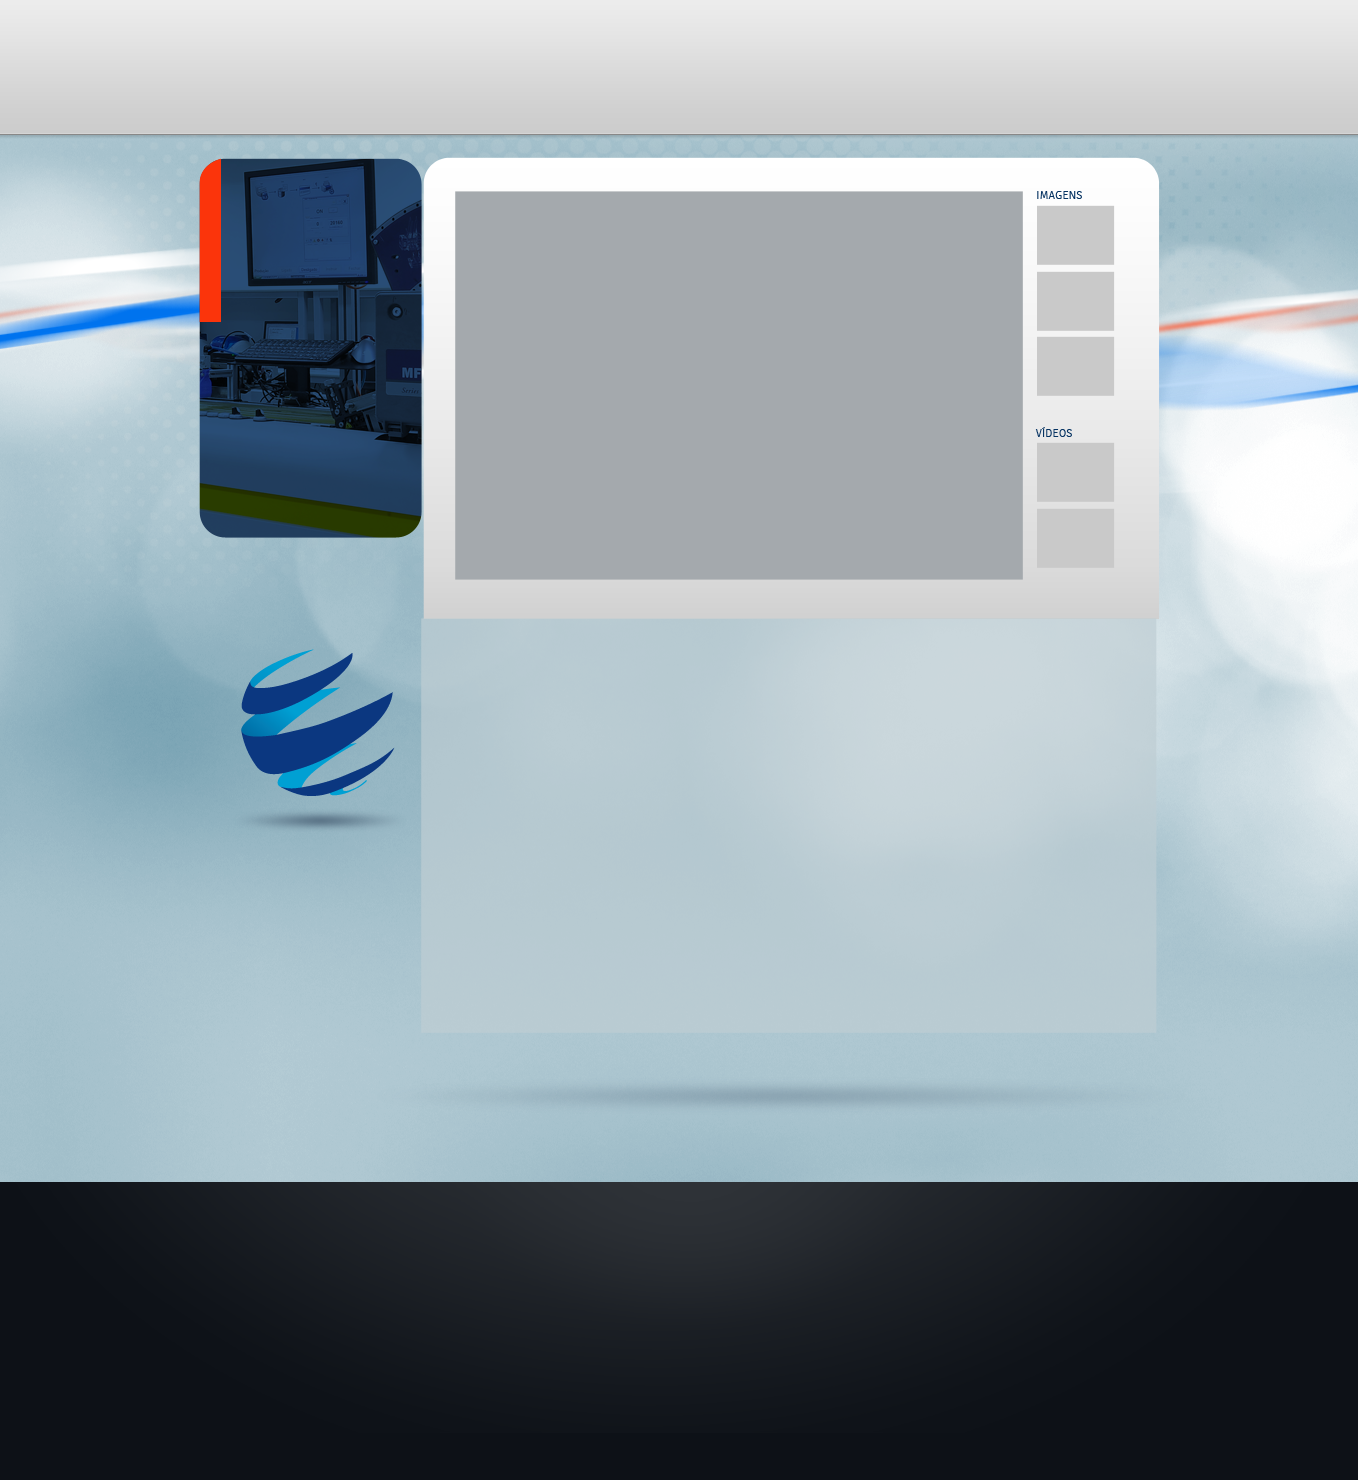
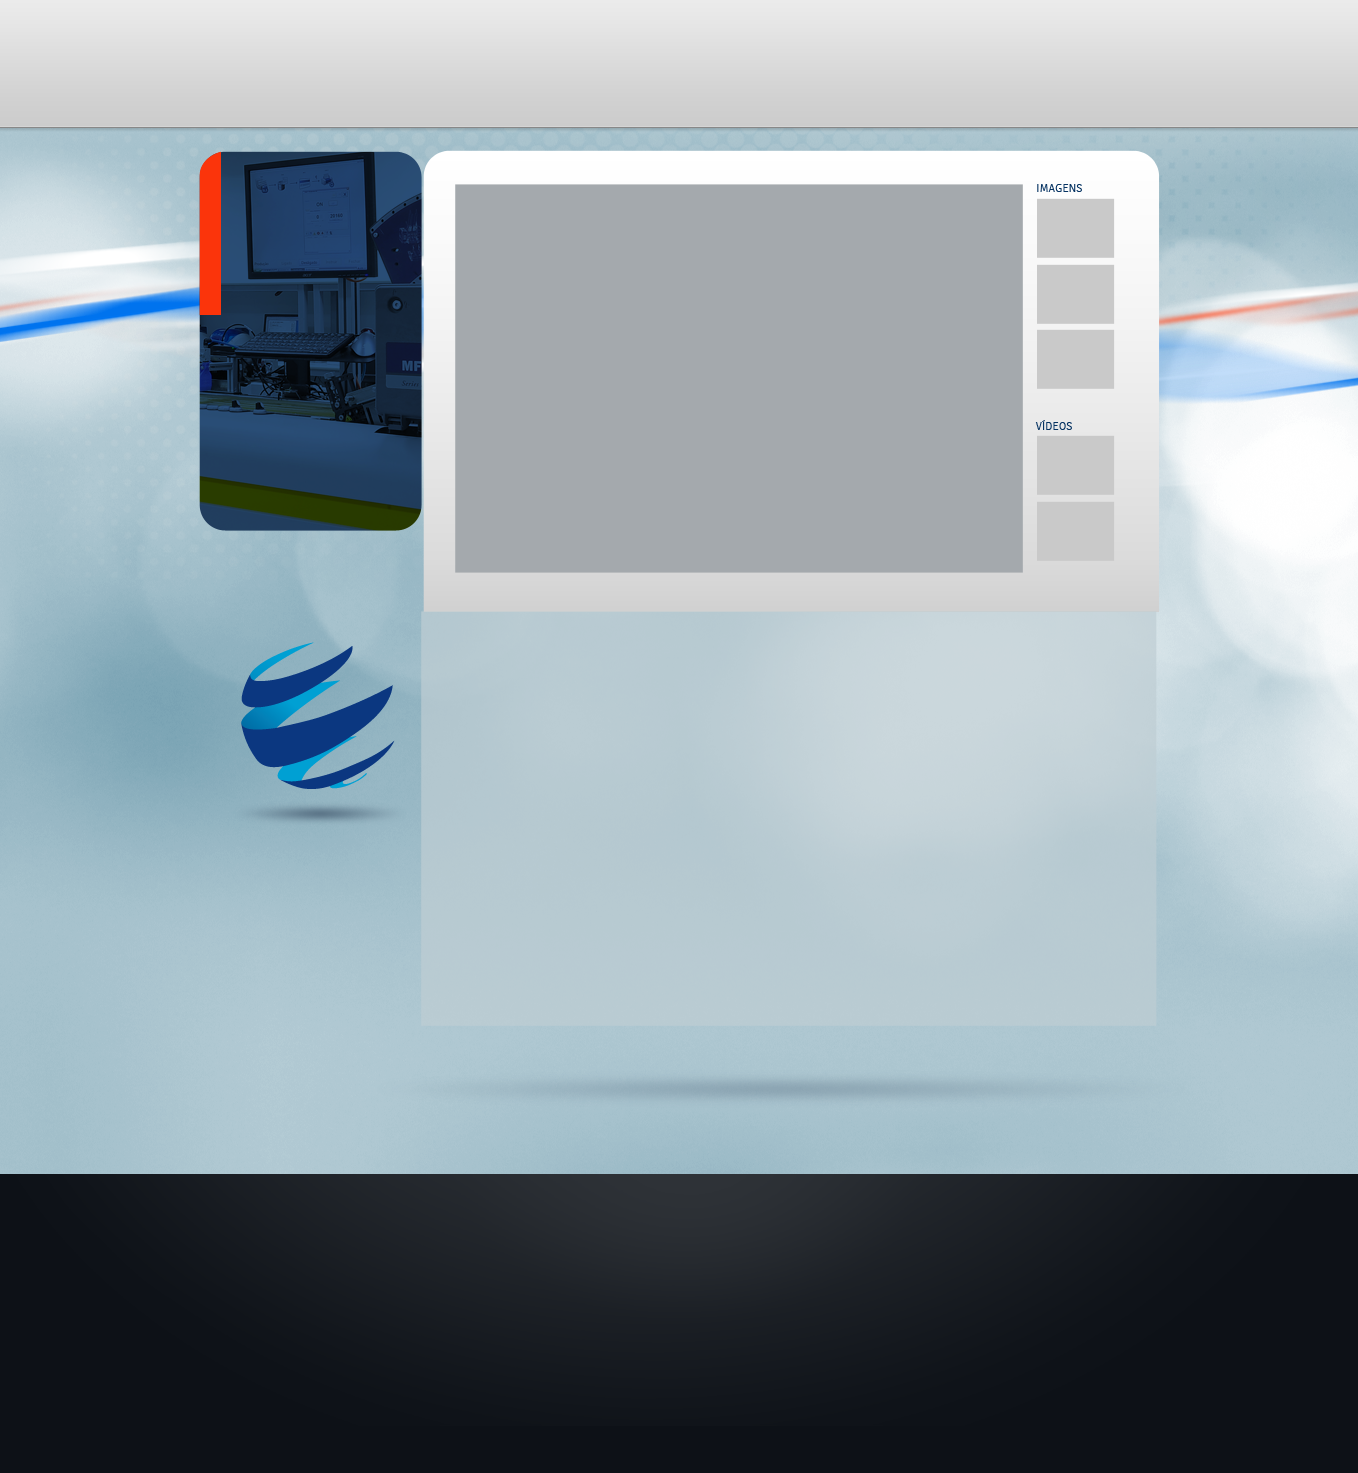
finalizado tela de empresa e servico com conteudo centralizado

diff --git a/css/servico.css b/css/servico.css
@@ -7,35 +7,35 @@
 
 #middle { width: 1358px; height: 884px; position: relative }
 
-	#middle #bureau { width: 254px; height: 652px; margin-left: 186px; margin-top: 64px; float: left }
-		#middle #bureau #bureauTittle { width: 213px; height: 20px; padding-left: 41px; 
+	#middle #bureau { width: 214px; height: 652px; margin-left: 204px; margin-top: 64px; float: left; padding-left: 40px }
+		#middle #bureau #bureauTittle { width: 213px; height: 20px; 
 		 								font-family: Signika, sans-serif; font-weight: 600; letter-spacing: 0.6px; line-height: 19px;font-size: 16px; color: #ffffff }
-		#middle #bureau #bureauText { width: 174px; height: 96px ; padding-right: 39px; padding-left: 41px; padding-top: 11px; letter-spacing: 0.2px; 
+		#middle #bureau #bureauText { width: 174px; height: 96px ; padding-right: 39px; padding-top: 11px; letter-spacing: 0.2px; 
 										font-family: Signika, sans-serif; font-weight: 300; font-size: 14px; color: #4db3cc }
-		#middle #bureau #bureau01 { width: 213px; height: 54px; padding-left: 41px; padding-top: 30px;
+		#middle #bureau #bureau01 { width: 213px; height: 54px; padding-top: 30px;
 										font-family: Signika, sans-serif; font-weight: 300; font-size: 14px; color: #aab7c7 }
-		#middle #bureau #bureau02 { width: 213px; height: 36px; padding-left: 41px; padding-top: 14px;
+		#middle #bureau #bureau02 { width: 213px; height: 36px; padding-top: 14px;
 										font-family: Signika, sans-serif; font-weight: 300; font-size: 14px; color: #aab7c7}
-		#middle #bureau #bureau03 { width: 174px; height: 132px; padding-left: 41px; padding-right: 39px; padding-top: 9px;
+		#middle #bureau #bureau03 { width: 174px; height: 132px; padding-right: 39px; padding-top: 9px;
 										font-family: Signika, sans-serif; font-weight: 300; font-size: 14px; color: #aab7c7 }
-		#middle #bureau #bureau04 { width: 213px; height: 61px; padding-left: 41px; padding-top: 5px;
+		#middle #bureau #bureau04 { width: 213px; height: 61px; padding-top: 5px;
 		  								font-family: Signika, sans-serif; font-weight: 300; font-size: 14px; color: #aab7c7 }
-		#middle #bureau #bureau05 { width: 183px; height: 79px; padding-left: 41px; padding-right: 30px; padding-top: 5px;
+		#middle #bureau #bureau05 { width: 183px; height: 79px; padding-right: 30px; padding-top: 5px;
 										font-family: Signika, sans-serif; font-weight: 300; font-size: 14px; color: #aab7c7 }
-		#middle #bureau #bureau06 { width: 187px; height: 40px; padding-left: 41px; padding-right: 27px; padding-top: 7px;
+		#middle #bureau #bureau06 { width: 187px; height: 40px; padding-right: 27px; padding-top: 7px;
 										font-family: Signika, sans-serif; font-weight: 300; font-size: 14px; color: #aab7c7 }
-		#middle #bureau #bureau07 { width: 213px; height: 46px;  padding-left: 41px; padding-top: 7px;
+		#middle #bureau #bureau07 { width: 213px; height: 46px;  padding-top: 7px;
 										font-family: Signika, sans-serif; font-weight: 300; font-size: 14px; color: #aab7c7 }
 
-	#middle #bureauMedia { width: 697px; height: 424px; margin-top: 22px; float:left; padding-left: 45px; padding-top: 43px; position: relative }
+	#middle #bureauMedia { width: 697px; height: 424px; margin-top: 21px; float:left; padding-left: 44px; padding-top: 43px; position: relative }
 	#middle #bureauMedia .container { position: absolute }
 
-	#middle .menu { height: 117px; width: 697px; float: left; padding-left:45px }
+	#middle .menu { height: 117px; width: 697px; float: left; padding-left:43px }
 	
 	#middle .menu .thumb { cursor: pointer; width: 99px; height: 79px; float: left; margin-right: 4px; margin-left:2px }
 	
 	#middle .menu .thumbimage { margin-left: 4px }
-	#middle .menu .thumbvideo { margin-left: 18px }
+	#middle .menu .thumbvideo { margin-left: 21px }
 
 	#imgSmallService01 .thumb { background: url("../img/imgSmallService01.png") no-repeat }
 	#imgSmallService02 .thumb { background: url("../img/imgSmallService02.png") no-repeat }

diff --git a/css/empresa.css b/css/empresa.css
@@ -1,8 +1,10 @@
+.background { height: 1473px }
 
+body { background-image: url("../img/background_company.png"); background-repeat: repeat-x }
 
 #enterpriseContent { background: url(../img/enterpriseBackground.png ) no-repeat 0 0 }
 
-#middle { width: 958px; height: 1026px; margin-left: 182px; margin-top: 19px; position: relative }
+#middle { width: 958px; height: 1026px; margin-left: 199px; margin-top: 19px; position: relative }
 
 	#middle #left { 
 		height: 231px; width: 180px; float: left; padding-left: 44px; padding-top: 150px;
@@ -16,10 +18,10 @@
 		#middle .image { width: 567px; height: 392px; float: left; position: relative }
 			#middle .image .container { position: absolute }
 
-		#middle .menu { width: 88px; height: 376px; float: left; margin-left: 16px; padding-top: 16px }
+		#middle .menu { width: 88px; height: 376px; float: left; margin-left: 15px; padding-top: 16px }
 		
 		#middle .thumb { cursor: pointer; width: 77px; height: 60px; margin-bottom: 7px }
-		#middle .thumbvideos { margin-top: 47px }
+		#middle .thumbvideos { margin-top: 43px }
 
 		#imgSmallEnterprise01 .thumb { background: url("../img/imgSmallEnterprise01.png") no-repeat }
 		#imgSmallEnterprise02 .thumb { background: url("../img/imgSmallEnterprise02.png") no-repeat }
